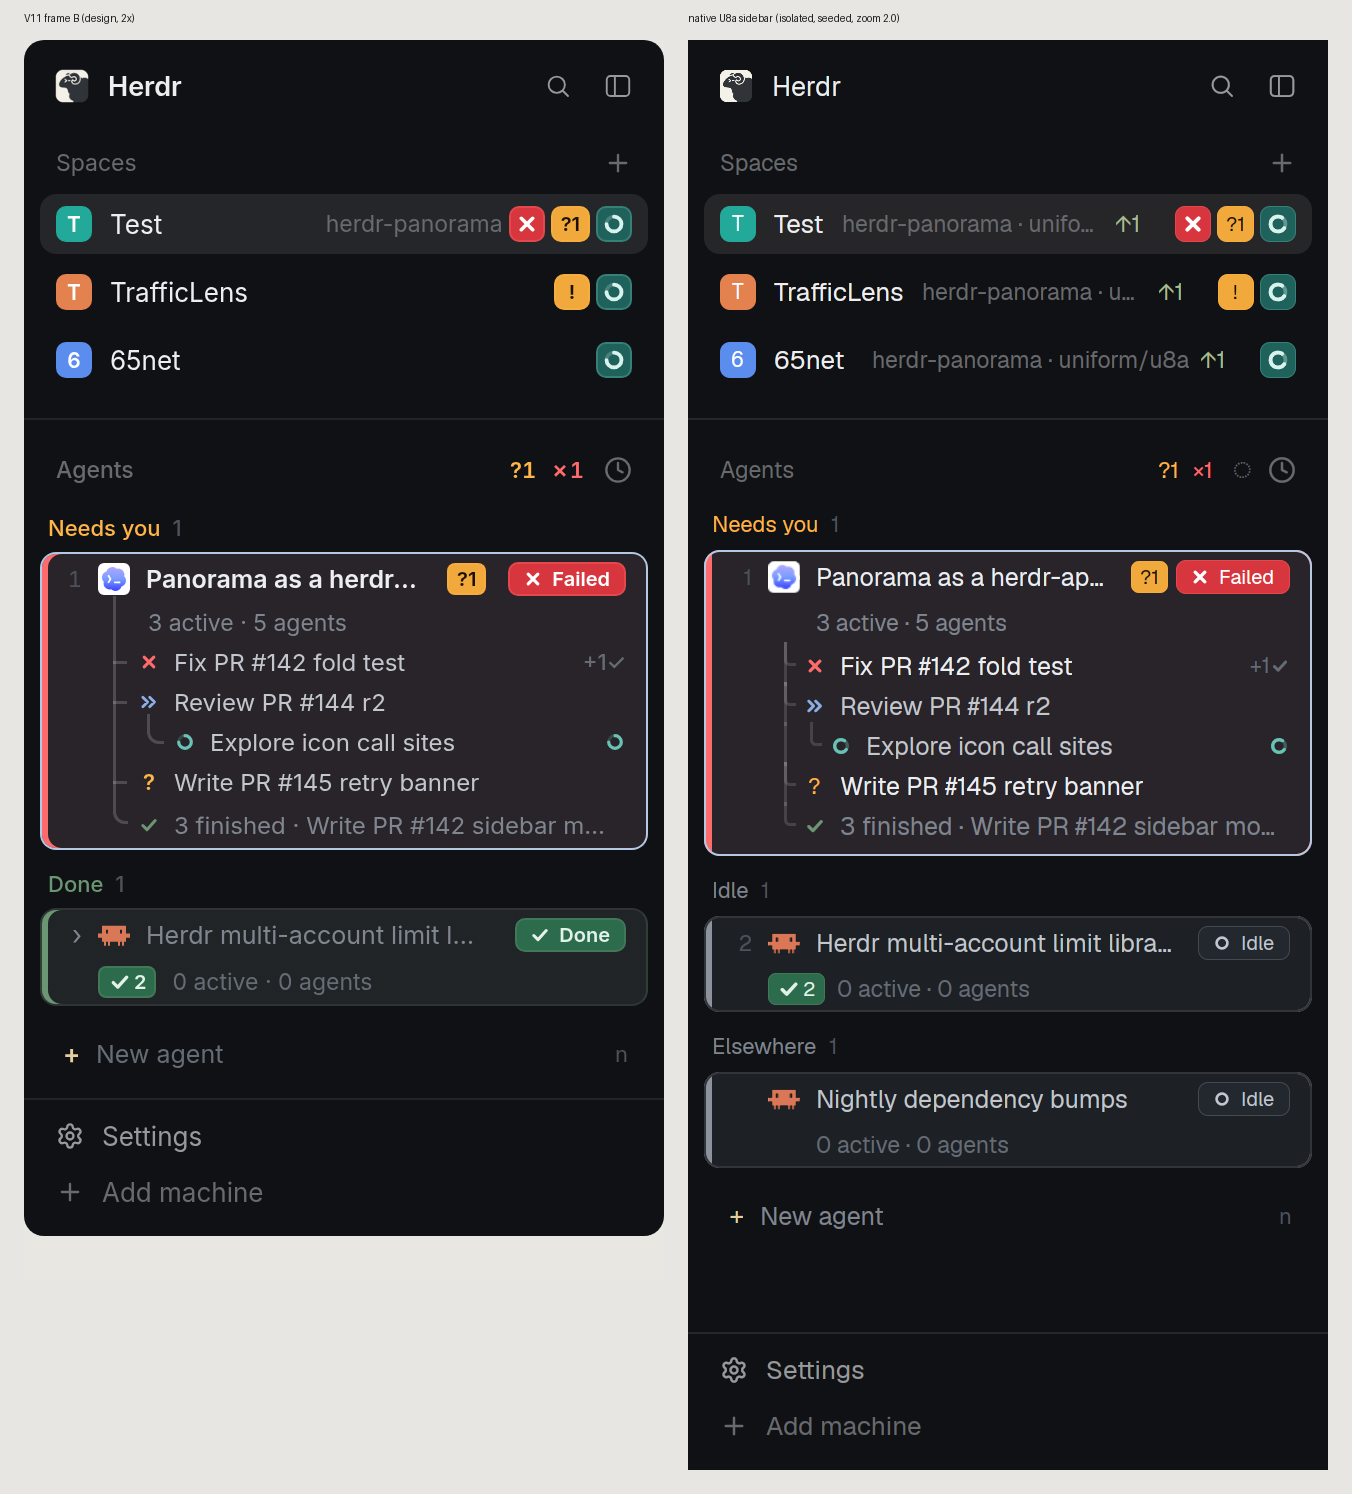
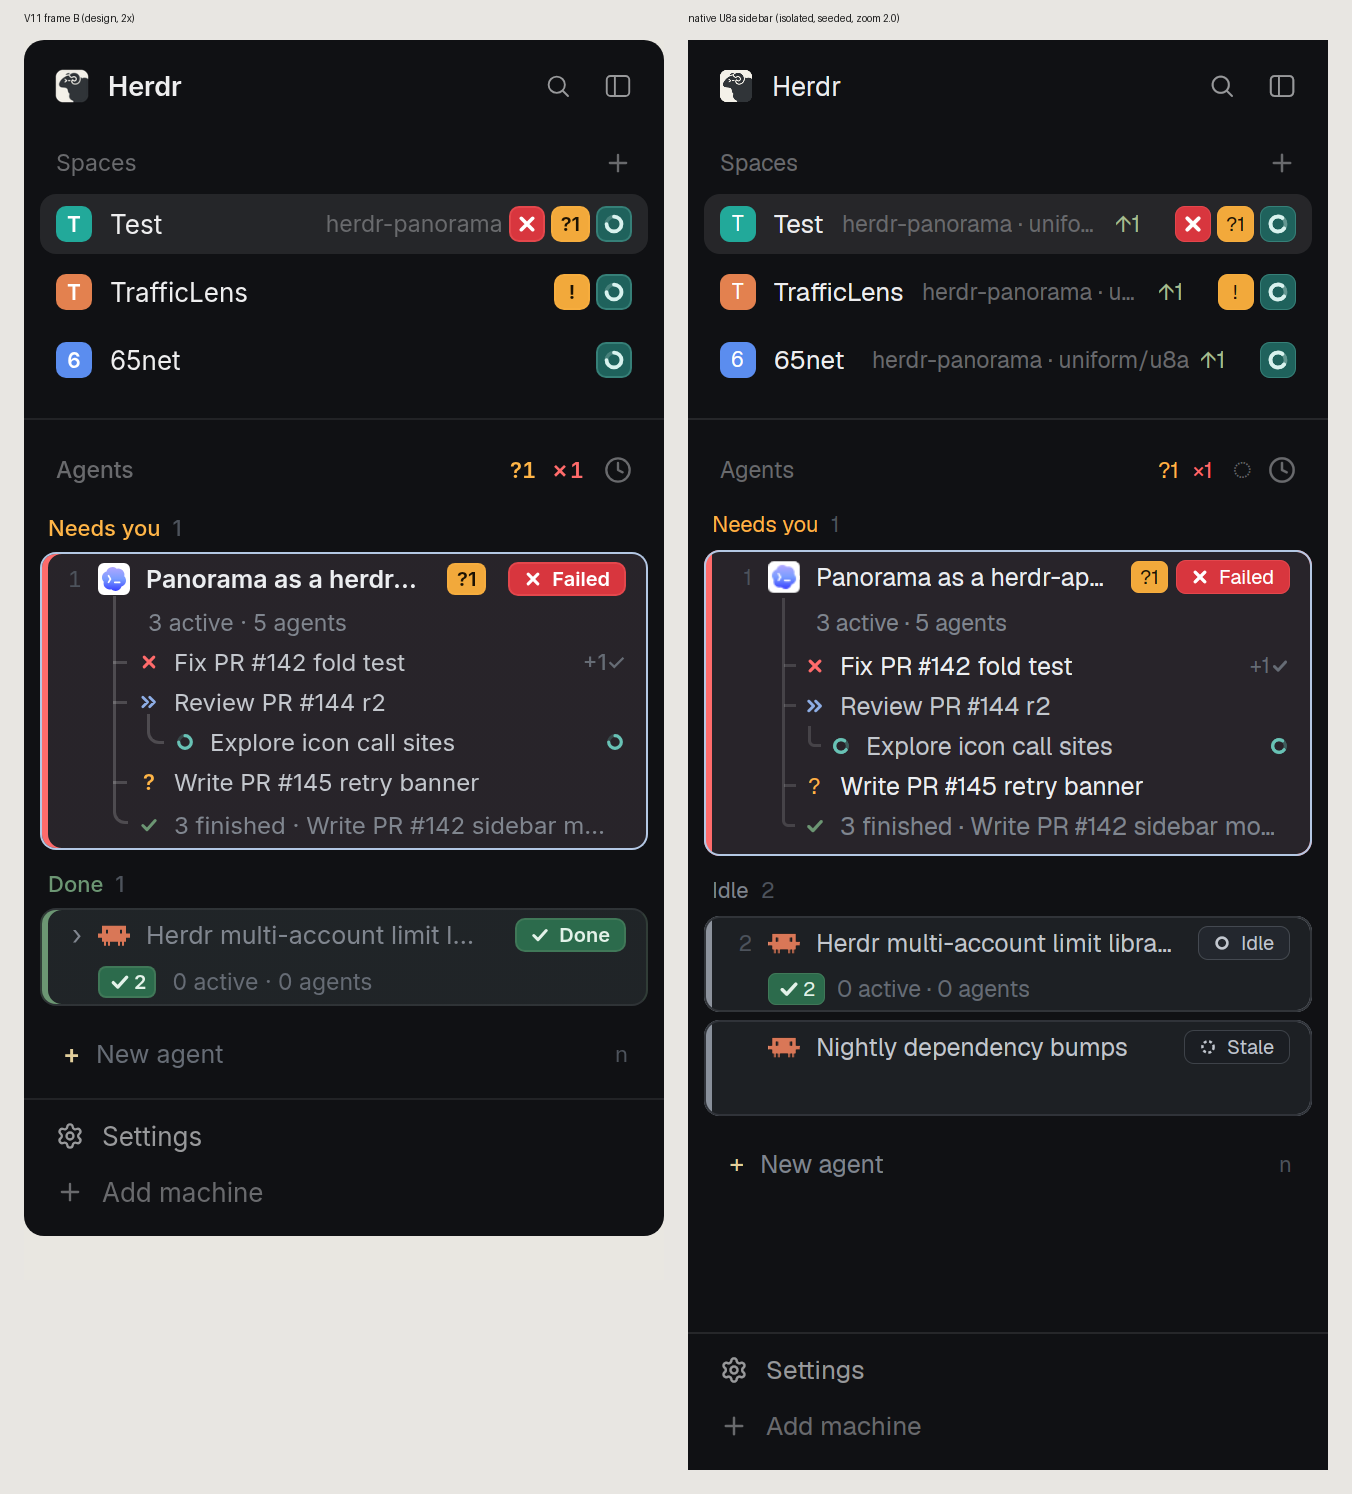
U8a review r1: recapture at the r1 fixes
Claude-Session: https://claude.ai/code/session_01JWxCTXpxx8TpVZ78rnhFRq

diff --git a/docs/review/herdr-app/uniform-u8a/README.md b/docs/review/herdr-app/uniform-u8a/README.md
@@ -1,6 +1,6 @@
 # U8a sidebar and Peek on feed v2: author capture
 
-Capture source: `b67276f9b399dc6b2a45924685dcb48934647e5b` (clean `app/` tree). Per-file SHA-256 of the captured mods is in [provenance.json](provenance.json).
+Capture source: `4957331667bb7dbad3bb5a712534c23b83f31361` (review r1 fixes) (clean `app/` tree). Per-file SHA-256 of the captured mods is in [provenance.json](provenance.json).
 
 [V11 B design / native](compare-b.png) · [V11 C design / native](compare-c.png) · [native sidebar, Test](native-b-sidebar.png) · [native sidebar, TrafficLens](native-b-trafficlens.png) · [native Peek](native-c-peek.png)
 
@@ -11,7 +11,7 @@ Each native image is the left 640×1430 physical pixels of a 1288-wide window at
 - A temporary `HERDR_APP_HOME`, `HOME` and XDG dirs, and a private `hc` core. The core was verified as separate, with 0 live terminals at start.
 - Owned status-reporter terminals, one per design root, kept as tabs named with the root's title.
 - The design's `SW` dataset from `state-refresh-v11/fixture.js` (V11 names, `kids` trees) was converted to a **feed v2** packet. Its root and agent templates come from `tests/fixtures/app-feed/swarm.json`.
-- One extra `herdr-tui` root has no app agent, which exercises the new Elsewhere section.
+- One extra `herdr-tui` root has no app agent, which exercises feed-only roots.
 - Only seeding is wrapped:
   - The sidebar wrapper publishes the private packet.
   - For C it opens the real `panorama-peek` view on the design's `fixer` agent.
@@ -21,7 +21,7 @@ Each native image is the left 640×1430 physical pixels of a 1288-wide window at
 ## Differences from the design, and why
 
 - **`Herdr multi-account` shows Idle under Idle**, not Done under Done. As in the V10 capture, the app reports a looked-at `done` agent as `idle`. Its line 2 `✓2` is the per-direct-subagent finished count, as designed.
-- **Elsewhere section** (not in the design). Feed roots that have no app agent, such as TUI-hosted roots, are now listed under their feed title (issue #161, feed v2 "Identity, tree and app joins"). They have no tab number, click target or space, and they stay out of the header totals.
+- **`Nightly dependency bumps` reads Stale** (not in the design's data). It is a root that has no app agent, such as a TUI-hosted root. These are now listed in the ordinary sections under their feed title (issue #161, feed v2 "Identity, tree and app joins"). They have no tab number, click target or space, and they stay out of the header totals. The seeded packet has no live writer, so the feed is stale. A feed-only root then shows as Stale, with no needs, tiles or counts, rather than as fresh evidence.
 - **No hover** on entry 2: nothing drove synthetic pointer input.
 - **Running glyphs** are captured mid-rotation. The header `◌` is the existing stale indicator: the seeded packet has no live writer.
 - **Peek position** follows the private window's pointer, not the design's anchor next to the row. The Transcript button is disabled because the seed has no transcript path.
